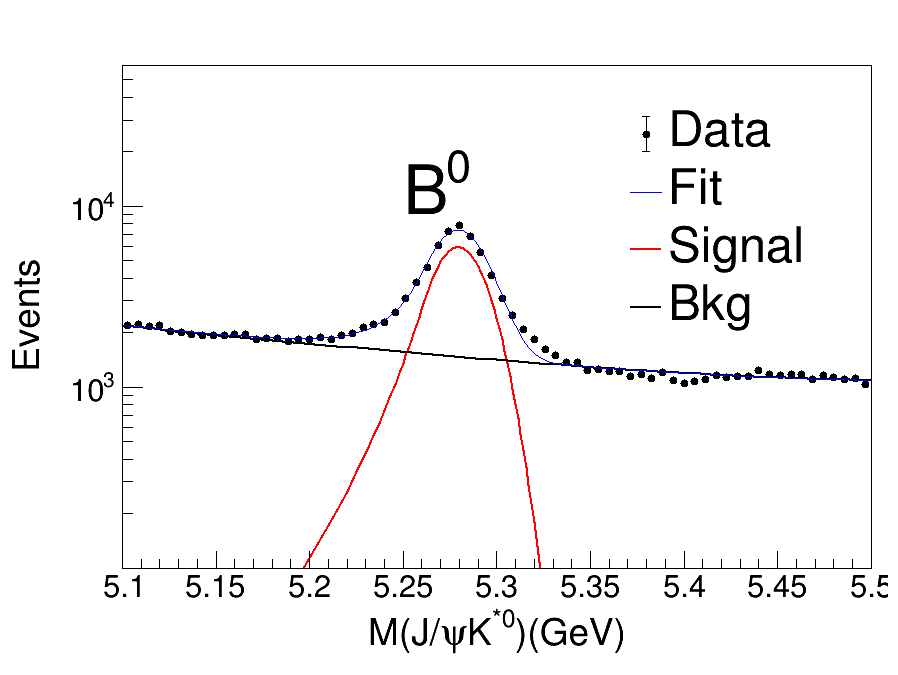
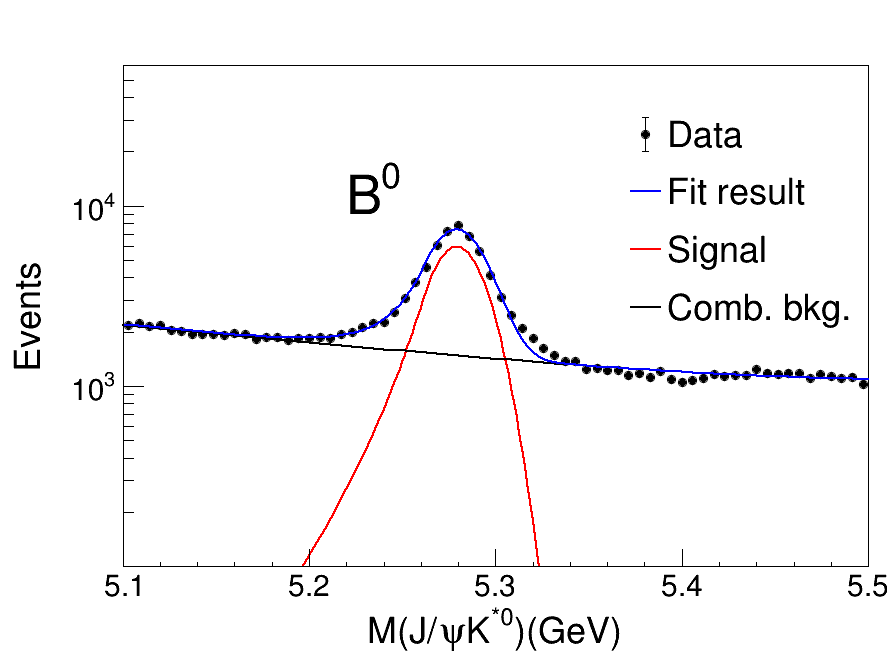
Gradficas

diff --git a/Codes/Josue/analisis.C b/Codes/Josue/analisis.C
@@ -152,7 +152,7 @@ void analisis(){
   c1->cd();
   TPad *pad = new TPad("p", "", 0.01,0.01,0.99,0.99);
   pad->SetLeftMargin(0.13);   
-  pad->SetRightMargin(0.019);
+  pad->SetRightMargin(0.021);
   pad->SetBottomMargin(0.15);
   pad->SetTopMargin(0.09);
   pad->Draw();
@@ -164,21 +164,22 @@ void analisis(){
   frame->SetYTitle("Events"); frame->GetYaxis()->CenterTitle();
   frame->SetTitleSize(0.06, "XY"); 
   frame->SetLabelSize(0.05,"XY");
+  frame->GetXaxis()->SetNdivisions(8, 1, 5);
 
   massDS->plotOn(frame, Name("data"), MarkerSize(1.0),XErrorSize(0));
   model.plotOn(frame, Components(sig), LineColor(kRed), LineWidth(2), Name("signal"));
   model.plotOn(frame, Components(bkg), LineColor(kBlack), LineWidth(2), Name("bkg"));
-  model.plotOn(frame, LineColor(kBlue), LineWidth(1), Name("model"));
+  model.plotOn(frame, LineColor(kBlue), LineWidth(2), Name("model"));
 
   TLegend *legMass = new TLegend(0.7,0.85,0.9,0.5);
-  legMass->SetTextSize(0.08);
+  legMass->SetTextSize(0.06);
   legMass->SetFillColor(0);
   legMass->SetBorderSize(0);
   legMass->SetFillStyle(0);
   legMass->AddEntry(frame->findObject("data"), "Data", "pe");
-  legMass->AddEntry(frame->findObject("model"), "Fit", "l");
+  legMass->AddEntry(frame->findObject("model"), "Fit result", "l");
   legMass->AddEntry(frame->findObject("signal"),"Signal","l");
-  legMass->AddEntry(frame->findObject("bkg"),"Bkg","l");
+  legMass->AddEntry(frame->findObject("bkg"),"Comb. bkg.","l");
 
   frame->SetMinimum(1E2);
   frame->SetMaximum(6E4);
@@ -186,15 +187,15 @@ void analisis(){
   legMass->Draw();
 
   auto mtext = new TLatex();
-  mtext->SetTextSize(0.11);
+  mtext->SetTextSize(0.09);
   mtext->SetTextFont(42);
-  mtext->DrawLatex(5.25, 9000, "B^{0}");
+  mtext->DrawLatex(5.22, 9000, "B^{0}");
 
   c1->Draw();
   c1->SaveAs("massFit.png");
 
   //Canvas 2
-  TCanvas *c = new TCanvas("c", "c", 1000, 700);
+  TCanvas *c = new TCanvas("c", "c", 800, 700);
   c->cd();
 
   TPad *pad1 = new TPad("p1", "", 0.01,0.4,0.9903769, 0.99);
